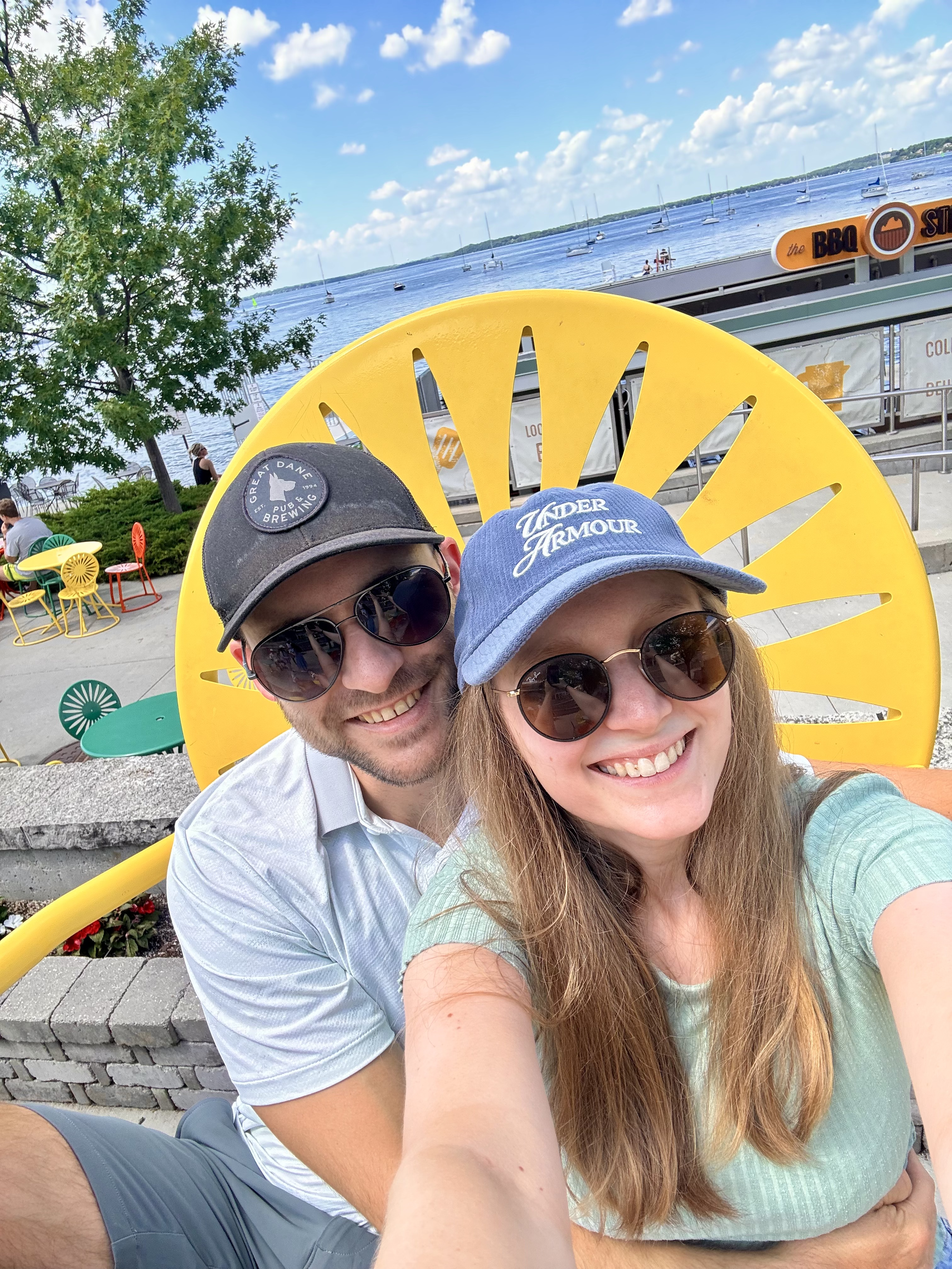
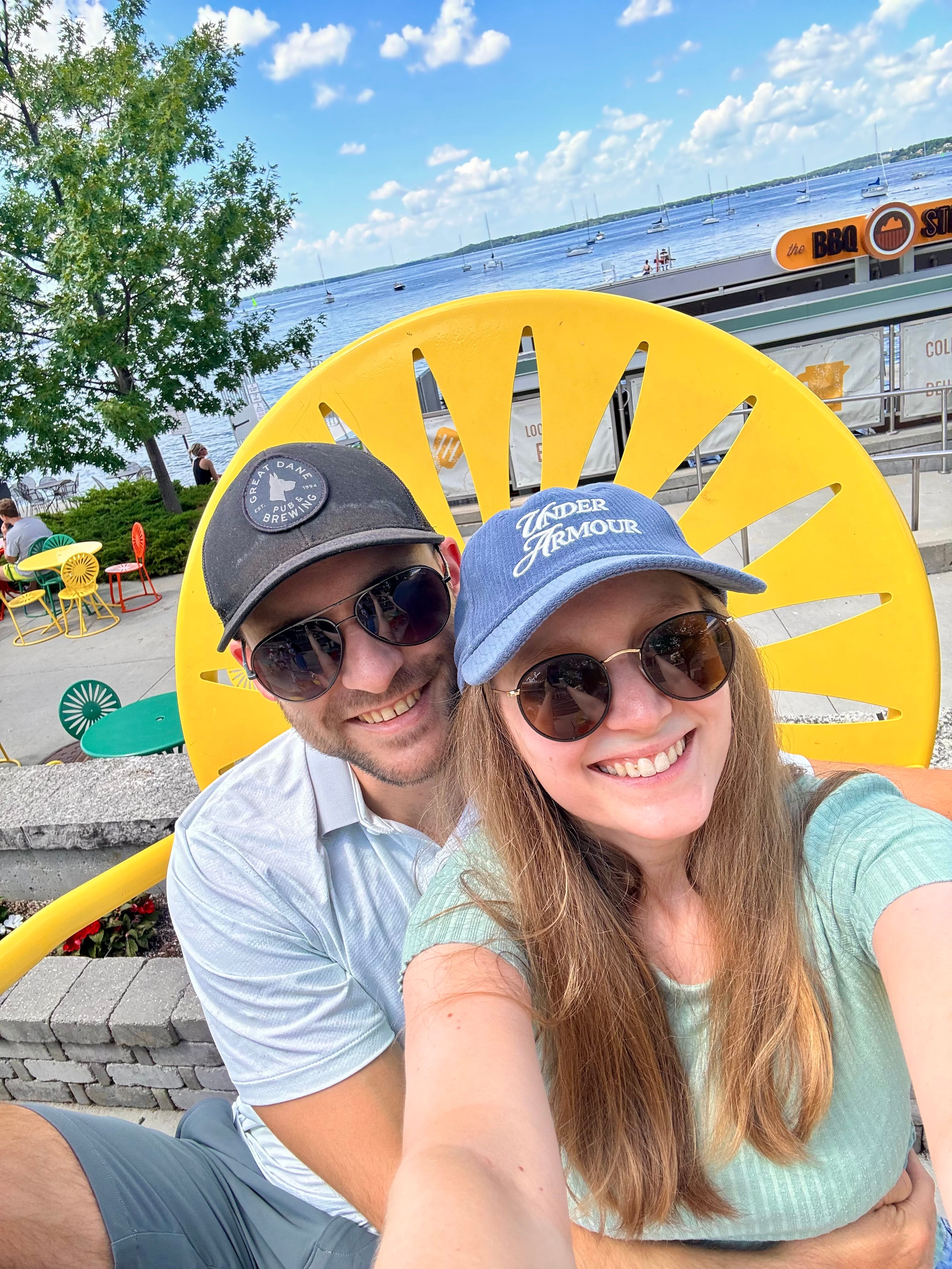
feat: added engagement photo and compressed the images a bit

diff --git a/src/components/love-story/stories.ts b/src/components/love-story/stories.ts
@@ -1,6 +1,8 @@
+import engagementPhoto from "@/assets/engagement.jpeg";
+
 export const stories = [
     {
-        image: "https://images.unsplash.com/photo-1522673607200-164d1b6ce486?w=600&h=400&fit=crop",
+        image: engagementPhoto,
         alt: "Wie wir uns kennenlernten",
         title: "Wie alles begann",
         text: `Es war ein ganz normaler Sommertag, als sich unsere Wege zum ersten Mal kreuzten.
@@ -12,7 +14,7 @@ export const stories = [
         author: "Dennis",
     },
     {
-        image: "https://images.unsplash.com/photo-1515934751635-c81c6bc9a2d8?w=600&h=400&fit=crop",
+        image: engagementPhoto,
         alt: "Der Heiratsantrag",
         title: "Der Antrag",
         text: `Nach Jahren voller gemeinsamer Abenteuer und unvergesslicher Momente
